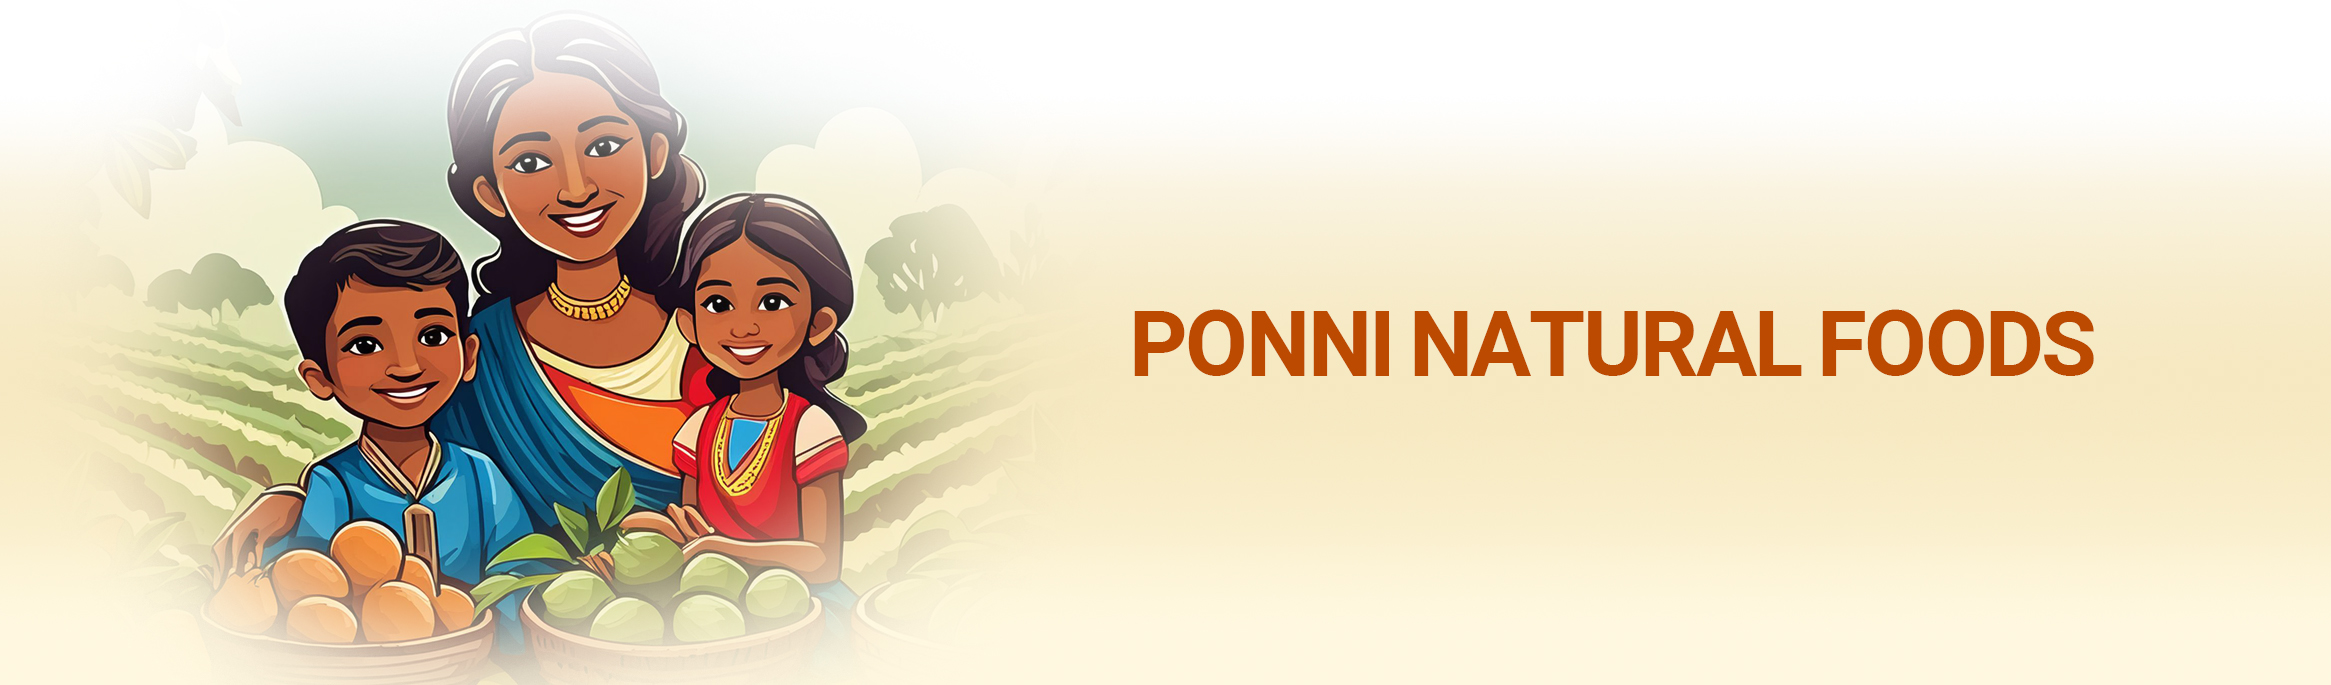
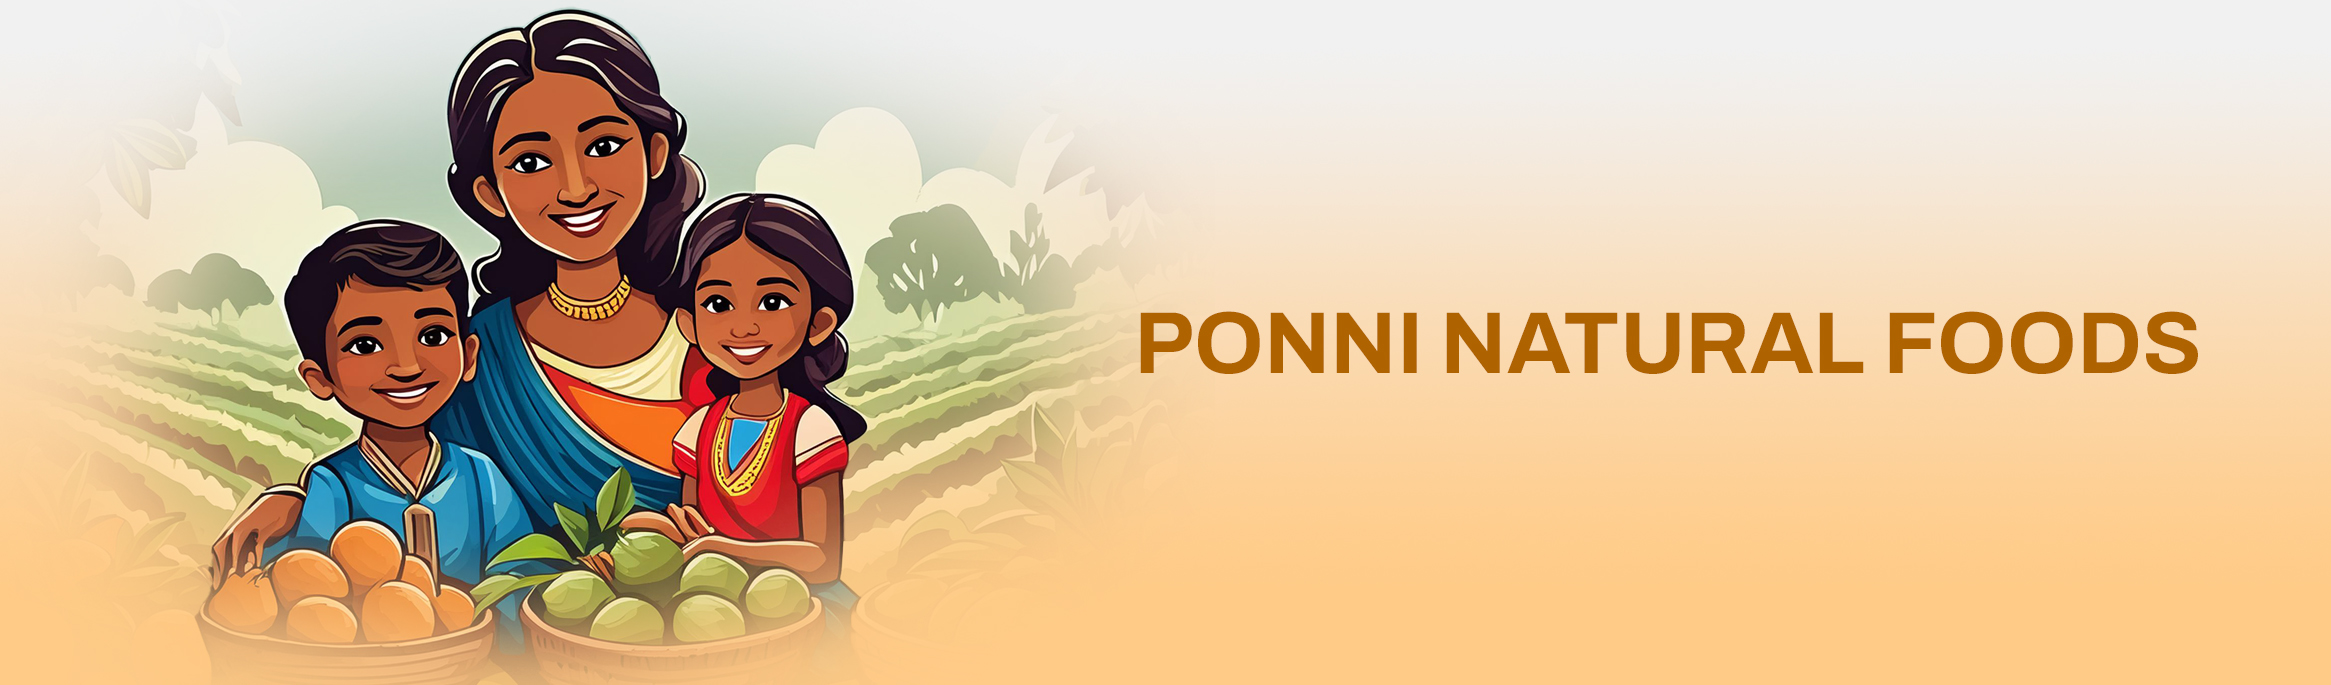
footer added

diff --git a/css/style_3.css b/css/style_3.css
@@ -221,7 +221,7 @@
     }
        .footer-banner {
           width:100% ;
-           margin-top: 10px;
+           margin-top: -10px;
        }
      .footer-banner1{
          display:none;
@@ -240,7 +240,7 @@
        .footer-main {
            
           /* background-color: #4d6b20;*/
-          background: linear-gradient(359deg, #bc4a0196, #fff7e0);
+          background: linear-gradient(1deg, #ffffff, #ffcb87);
 
            color: white;
         padding-top:30px;
